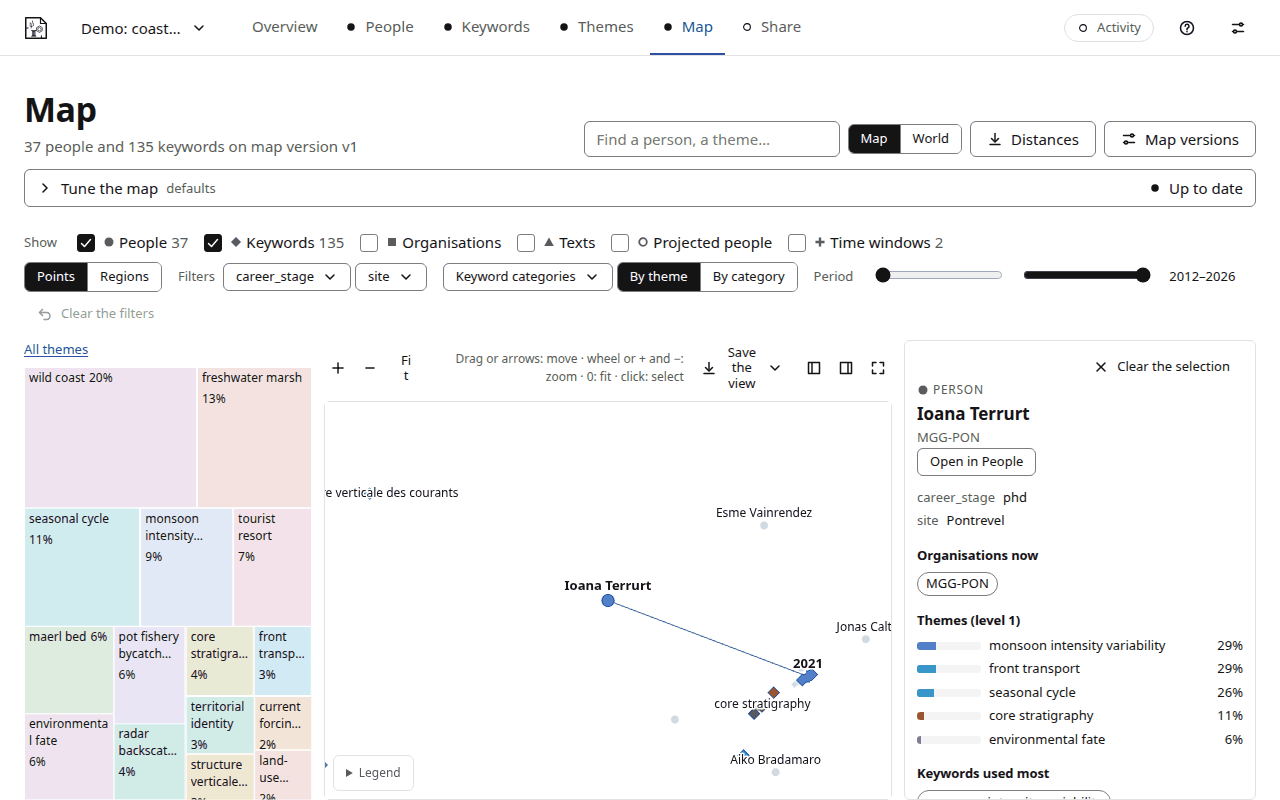
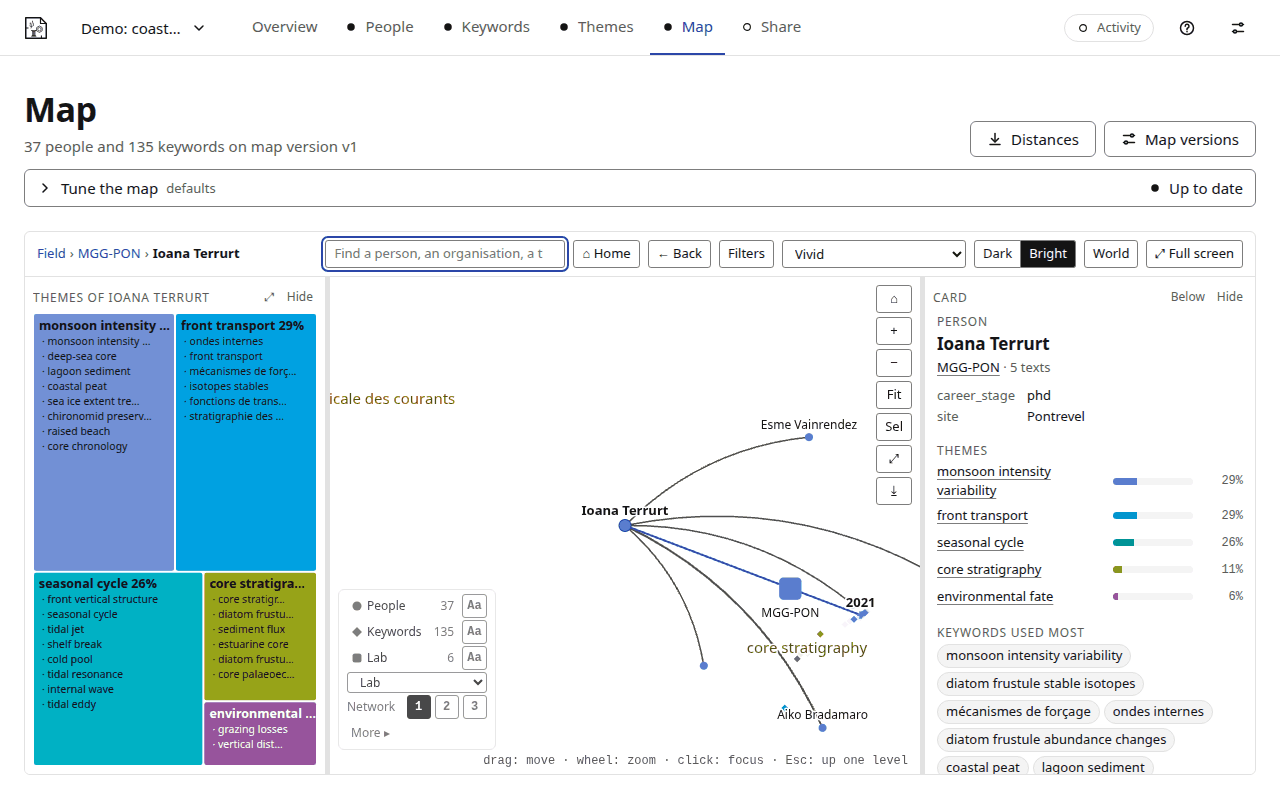
docs: the map tutorial's picture shows the atlas with a person's co-authors

diff --git a/tools/docs_screenshots.py b/tools/docs_screenshots.py
@@ -357,16 +357,12 @@ def map_screen(s: Shots) -> None:
     """The map with a person selected, and the comparison of two people."""
     page = s.page
     s.go("/map", settle=3000)
-    find = page.get_by_placeholder("Find a person, a theme…").first
+    find = page.get_by_role("combobox", name="Find")
     find.fill("Ioana")
     page.wait_for_timeout(800)
-    page.keyboard.press("ArrowDown")
-    page.keyboard.press("Enter")
-    page.wait_for_timeout(2500)
-    legend = page.locator("summary").filter(has_text="Legend")
-    if legend.count():
-        legend.first.click()
-        page.wait_for_timeout(500)
+    page.keyboard.press("Enter")  # the first match
+    page.locator(".cx-atlas-card h4", has_text="Co-authors").wait_for()
+    page.wait_for_timeout(1500)
     s.shot("map-person")
 
 
